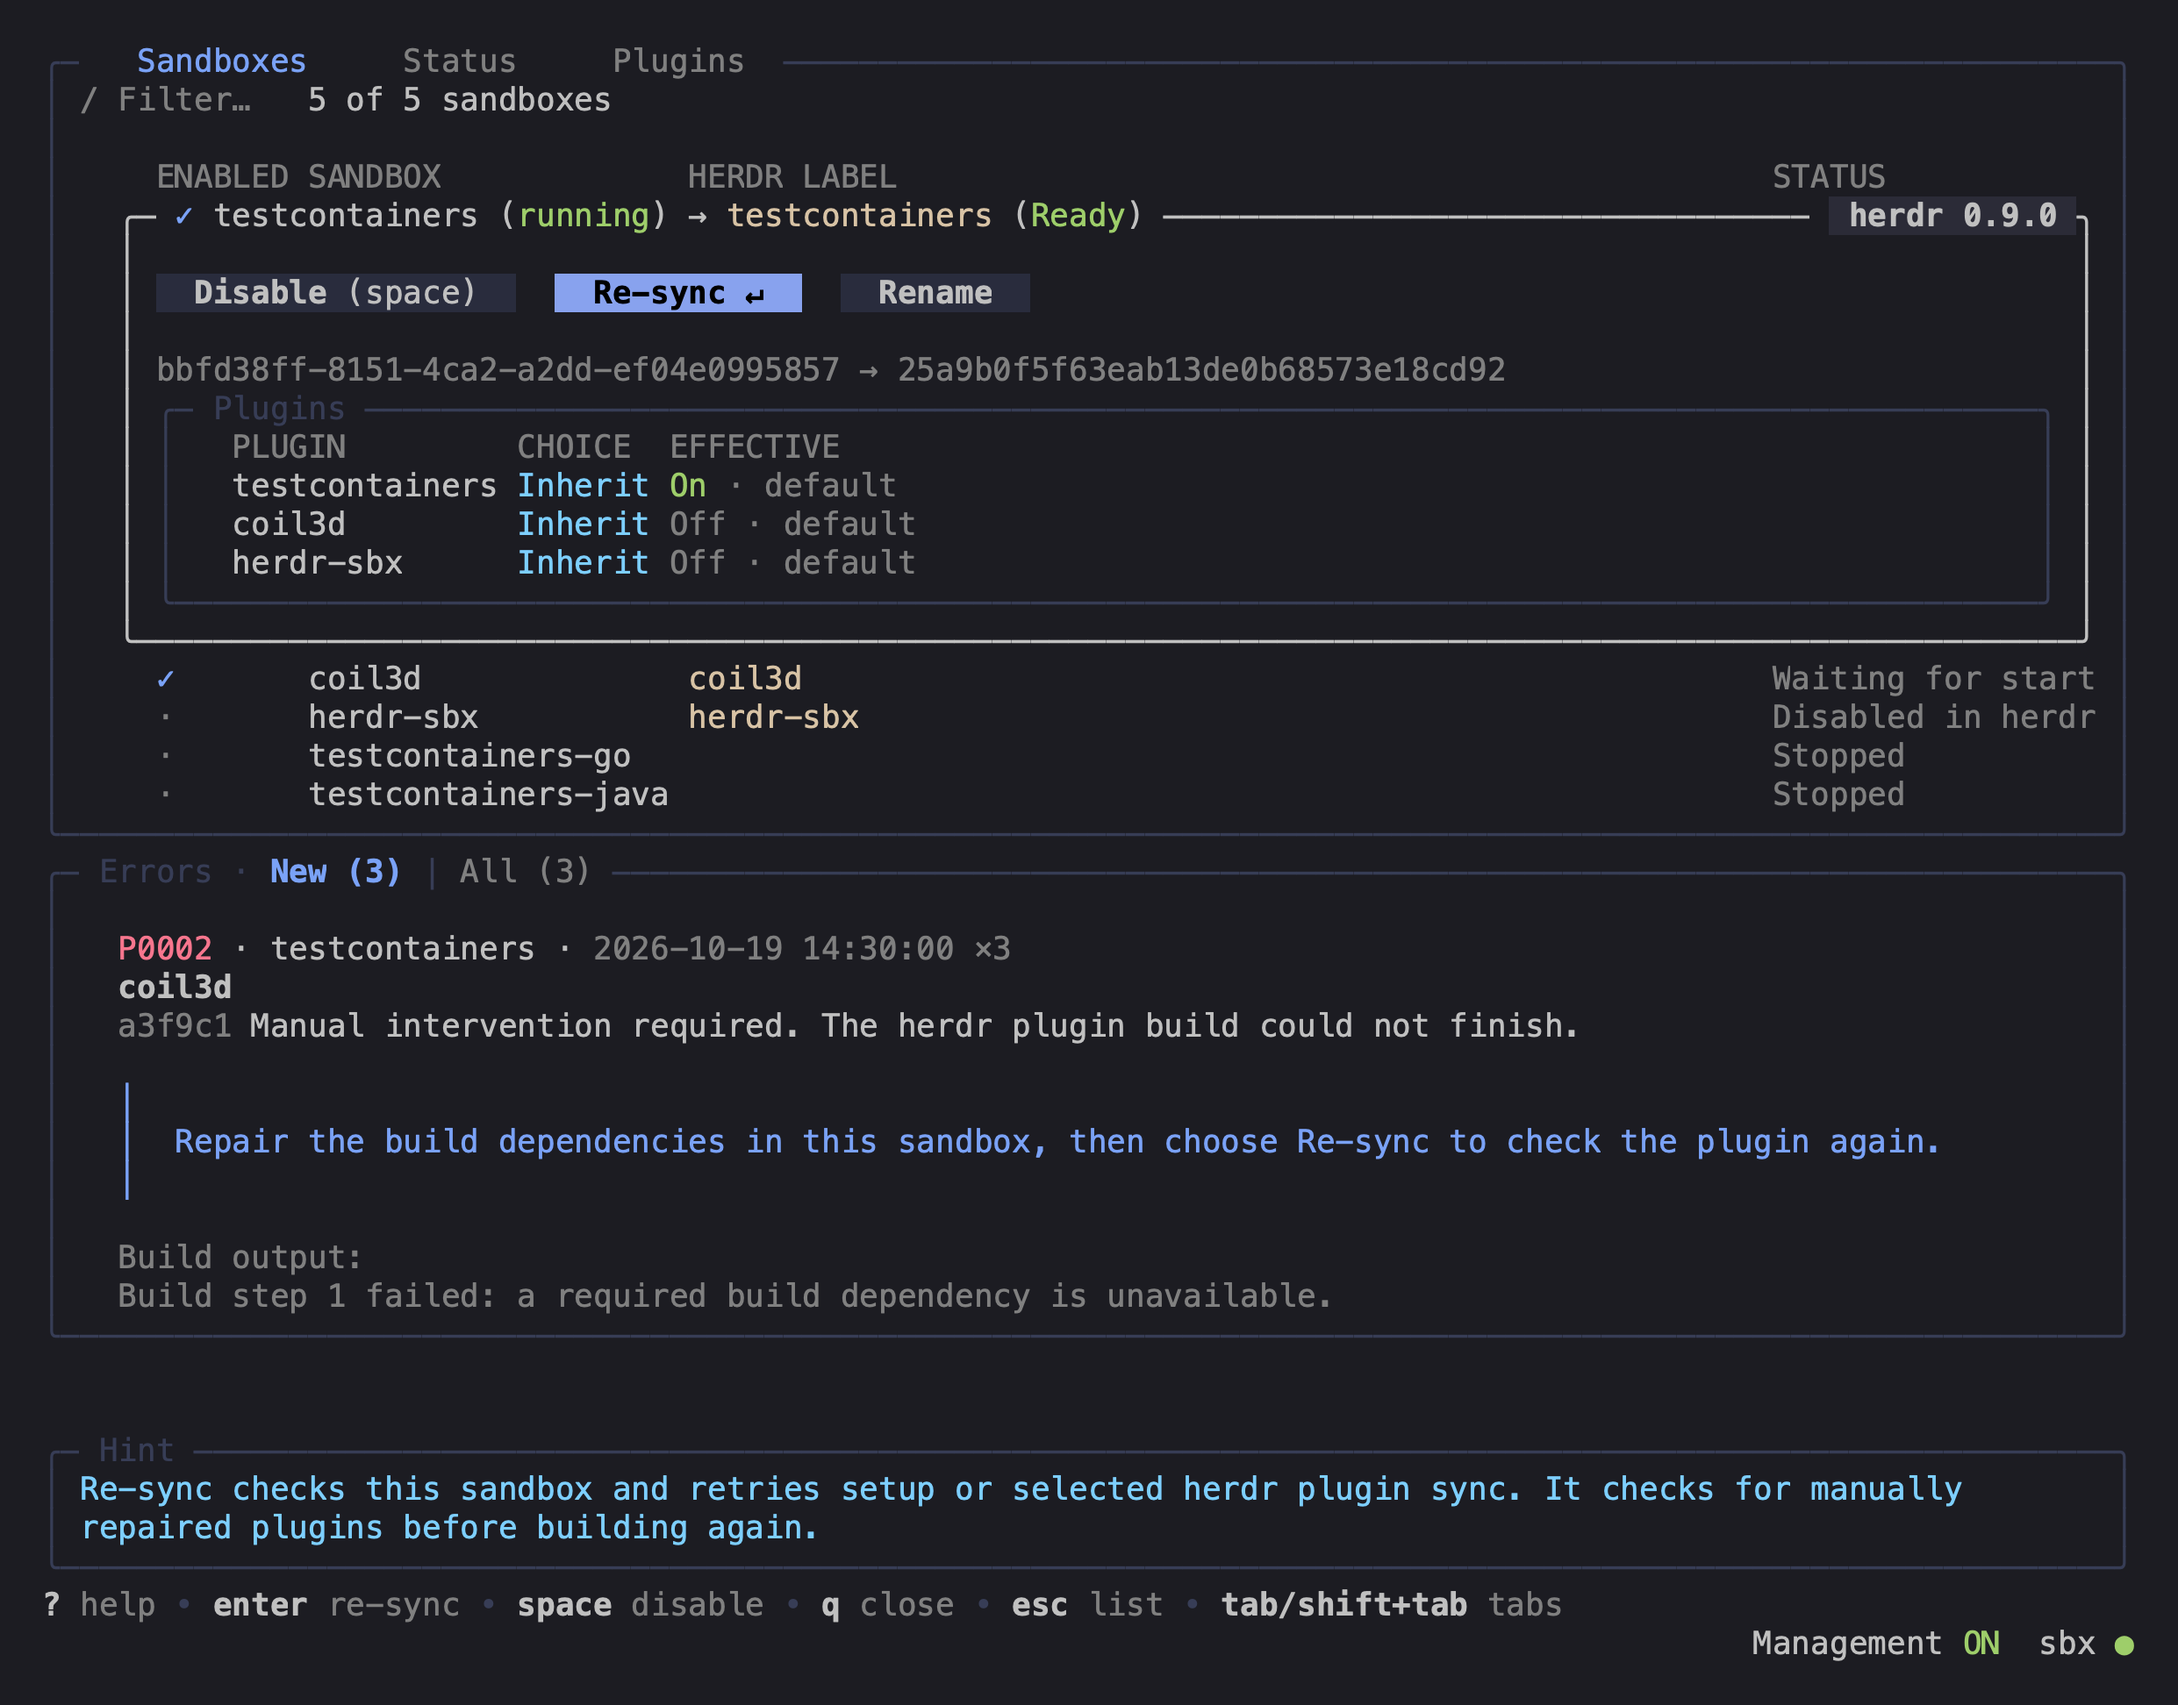
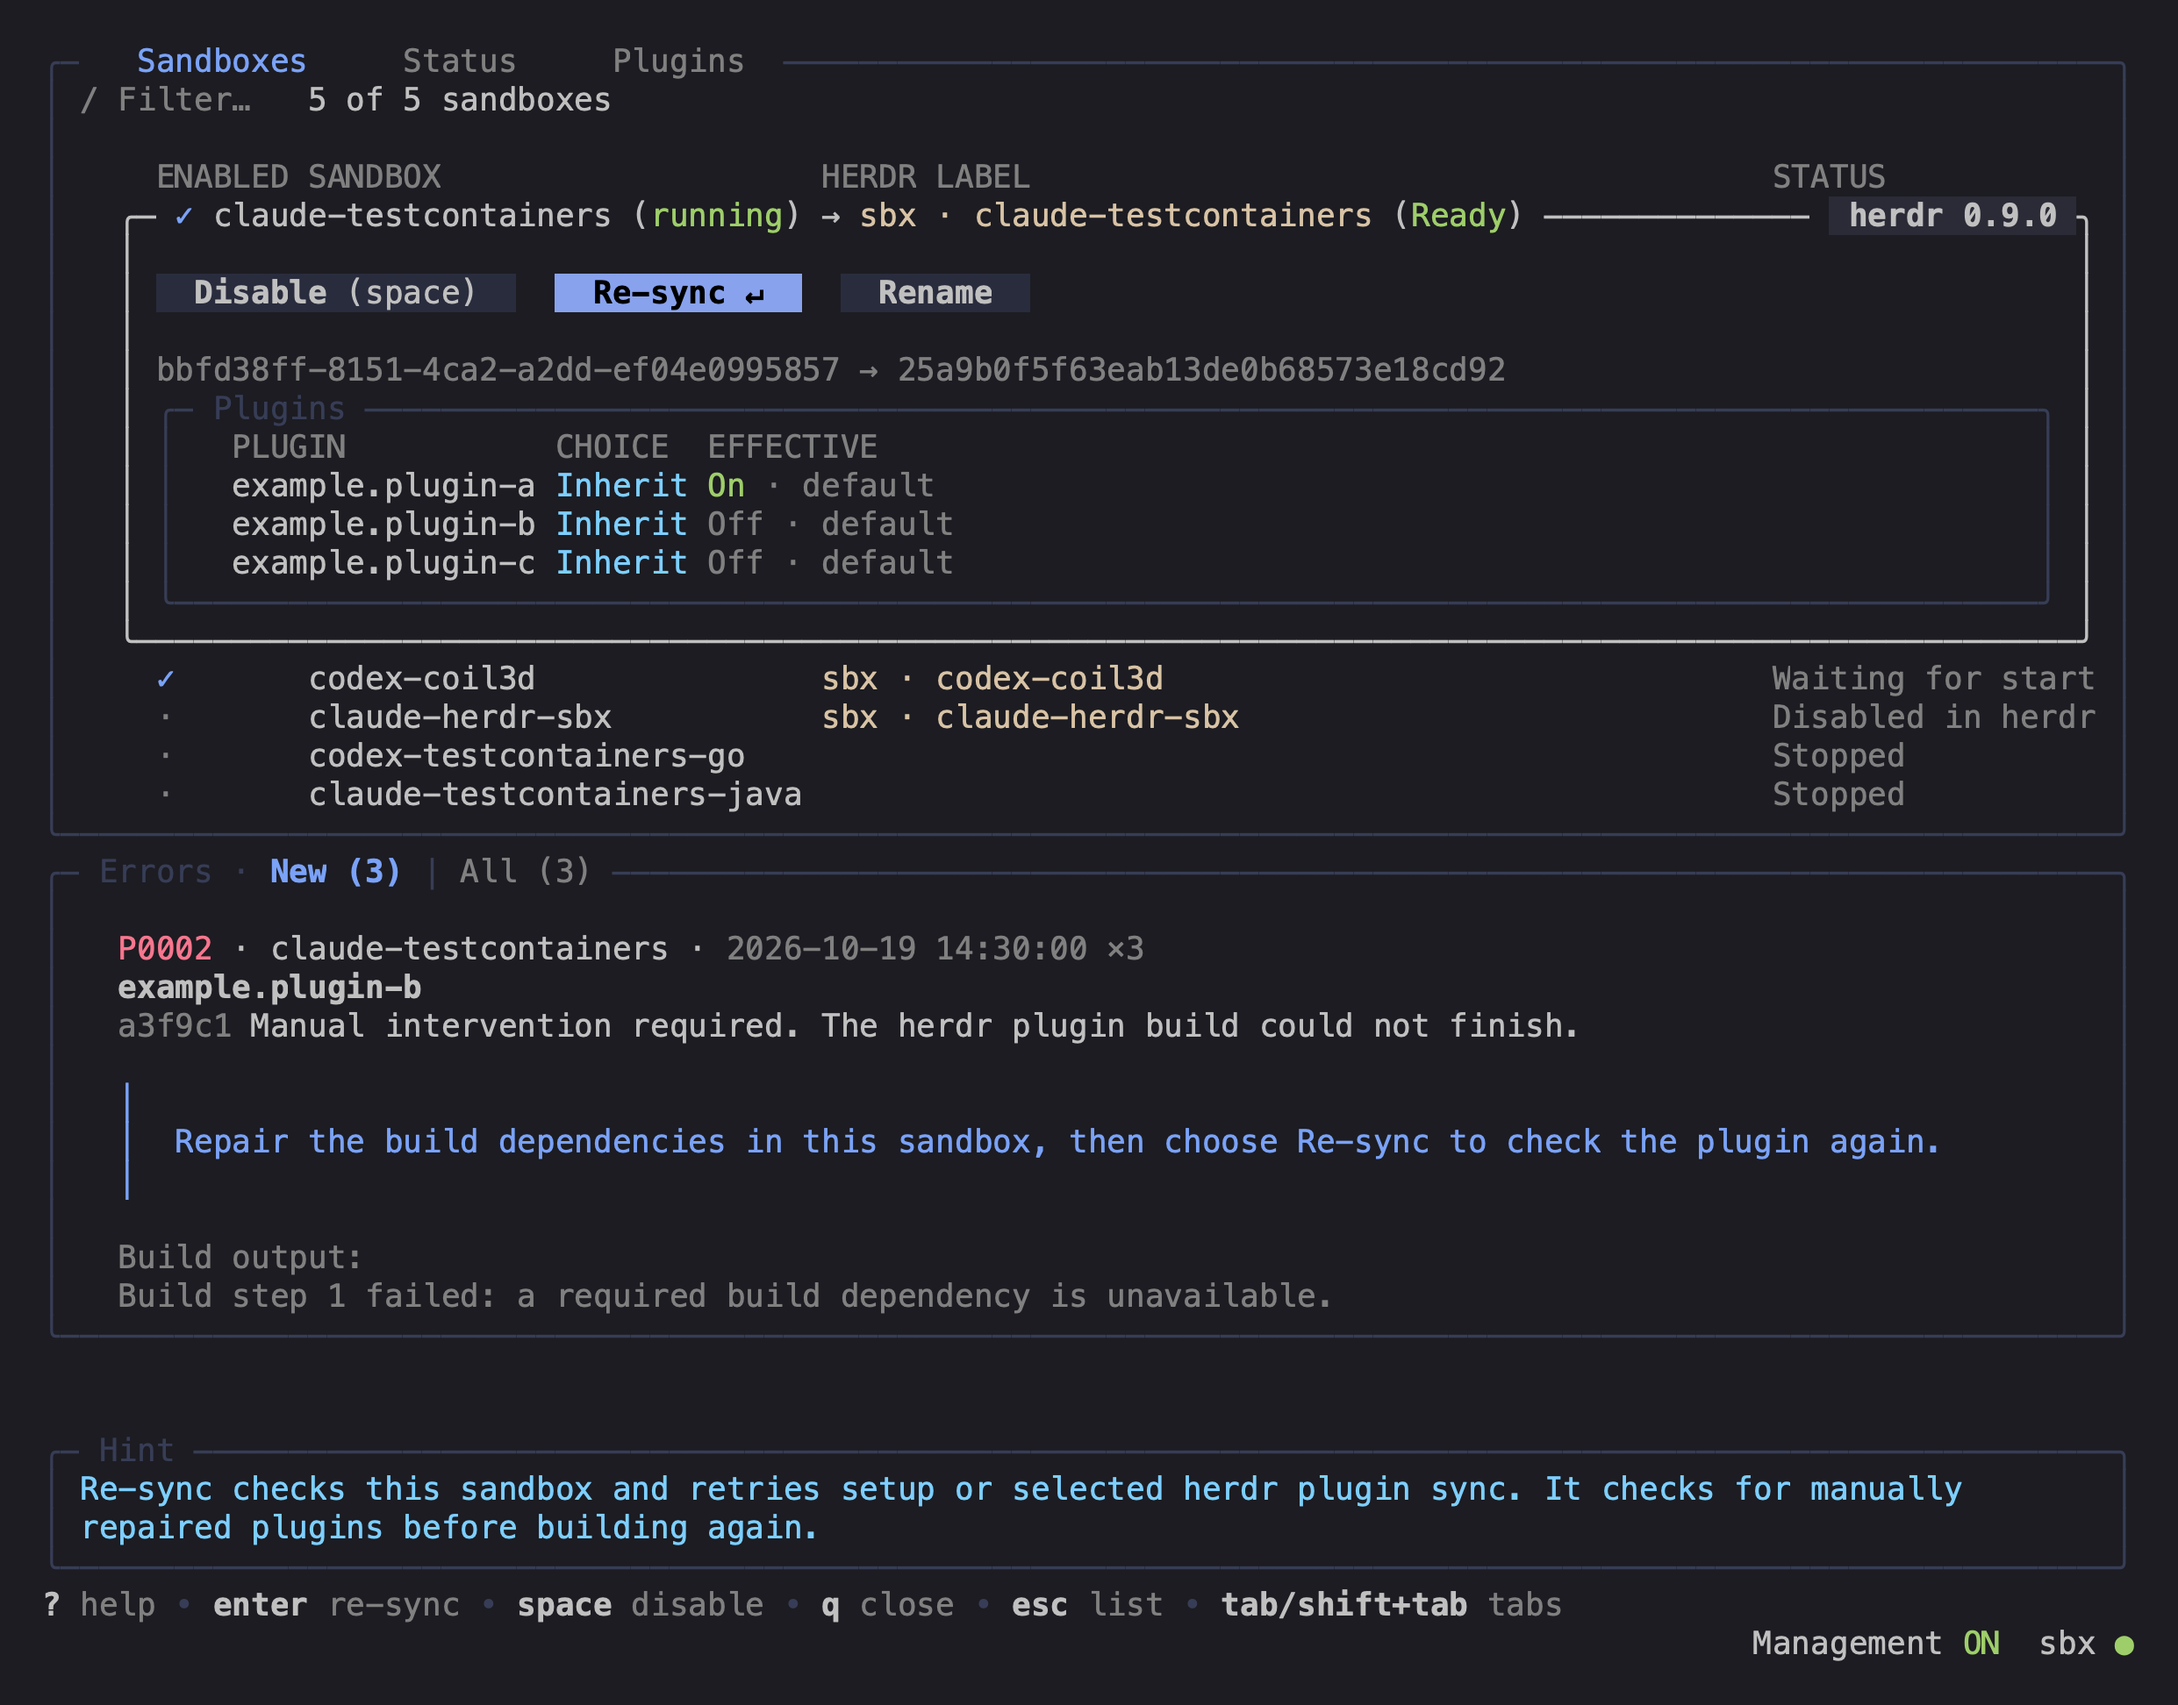
Move Management status into a corner badge and refresh examples

diff --git a/internal/panel/screenshots_test.go b/internal/panel/screenshots_test.go
@@ -40,7 +40,7 @@ func TestCaptureScreenshots(t *testing.T) {
 	m.expanded, m.focus = m.selected, "actions"
 	m.button = 1
 	at := time.Date(2026, 10, 19, 12, 30, 0, 0, time.UTC)
-	m.errors = []uiError{{ref: "a3f9c1", code: store.CodeGuestPluginSync, scope: store.StatusKey("examples", m.selected), pluginID: "coil3d", detail: "Manual intervention required. The herdr plugin build could not finish.", recovery: "Repair the build dependencies in this sandbox, then choose Re-sync to check the plugin again.", output: "Build step 1 failed: a required build dependency is unavailable.", count: 3, firstSeen: at, seen: at}}
+	m.errors = []uiError{{ref: "a3f9c1", code: store.CodeGuestPluginSync, scope: store.StatusKey("examples", m.selected), pluginID: "example.plugin-b", detail: "Manual intervention required. The herdr plugin build could not finish.", recovery: "Repair the build dependencies in this sandbox, then choose Re-sync to check the plugin again.", output: "Build step 1 failed: a required build dependency is unavailable.", count: 3, firstSeen: at, seen: at}}
 	write("sandbox-details", m)
 	m = screenshotModel()
 	m.width, m.height = 110, 28
@@ -62,7 +62,7 @@ func TestCaptureScreenshots(t *testing.T) {
 	}
 	write("status", m)
 	m = screenshotModel()
-	m.page, m.pluginSelected = "Plugins", "testcontainers"
+	m.page, m.pluginSelected = "Plugins", "example.plugin-a"
 	m.height = 16
 	write("plugins", m)
 	m = screenshotModel()
@@ -75,8 +75,8 @@ func screenshotModel() *model {
 		queries: map[string]string{}, pending: map[string]bool{}, pendingChoices: map[string]pluginChoiceChange{},
 		workerEnabled: true, workerLoaded: true,
 		worker:   store.WorkerStatus{State: "running", LastSync: time.Now()},
-		plugins:  []guestplugins.Choice{{ID: "testcontainers", Enabled: true, Installed: true}, {ID: "coil3d", Installed: true}, {ID: "herdr-sbx", Installed: true}},
-		settings: store.GuestPluginDefaults{Plugins: map[string]store.GuestPluginDefault{"testcontainers": {Enabled: true}, "coil3d": {Enabled: false}}},
+		plugins:  []guestplugins.Choice{{ID: "example.plugin-a", Enabled: true, Installed: true}, {ID: "example.plugin-b", Installed: true}, {ID: "example.plugin-c", Installed: true}},
+		settings: store.GuestPluginDefaults{Plugins: map[string]store.GuestPluginDefault{"example.plugin-a": {Enabled: true}, "example.plugin-b": {Enabled: false}}},
 		checks:   precheck.Result{Checks: []precheck.Check{{Name: "herdr", Level: precheck.Ready, Detail: "herdr 0.9.0"}, {Name: "Sandbox daemon", Level: precheck.Ready, Detail: "Running"}, {Name: "Sandbox SSH", Level: precheck.Ready, Detail: "Configured"}}},
 	}
 	choices := []store.EnabledChoice{store.Enabled, store.Enabled, store.Disabled, store.Disabled, store.Disabled}
@@ -90,8 +90,8 @@ func screenshotModel() *model {
 		"e8321142-7f39-4b84-9ac8-11fa7080d9fb",
 	}
 	profileIDs := []string{"25a9b0f5f63eab13de0b68573e18cd92", "92c3df06bd5143e7a76d1f608d841b2c", "4cd97acb00af4ce68239298e9f082936"}
-	for i, name := range []string{"testcontainers", "coil3d", "herdr-sbx", "testcontainers-go", "testcontainers-java"} {
-		row := registration.SandboxRow{Sandbox: sbx.Sandbox{ID: sandboxIDs[i], Name: name, Status: states[i]}, Scope: "examples", Enabled: choices[i], Label: name, EntryPresent: i < 3,
+	for i, name := range []string{"claude-testcontainers", "codex-coil3d", "claude-herdr-sbx", "codex-testcontainers-go", "claude-testcontainers-java"} {
+		row := registration.SandboxRow{Sandbox: sbx.Sandbox{ID: sandboxIDs[i], Name: name, Status: states[i]}, Scope: "examples", Enabled: choices[i], Label: "sbx · " + name, EntryPresent: i < 3,
 			Status: store.SandboxStatus{Connection: connections[i], ObservedAt: time.Now(), GuestServer: &store.GuestServerObservation{Version: "0.9.0", Current: true, CheckedAt: time.Now()}}}
 		native := i == 0
 		if row.EntryPresent {

diff --git a/internal/panel/styles.go b/internal/panel/styles.go
@@ -244,7 +244,7 @@ func (m *model) managementCancelling() bool {
 	return m.worker.State == "cancelling" || !m.stopRequestedAt.IsZero()
 }
 
-func (m *model) managementStatus() string {
+func (m *model) managementState() (string, string) {
 	state, color := "Error", colorError
 	switch m.worker.State {
 	case "running":
@@ -254,16 +254,21 @@ func (m *model) managementStatus() string {
 	case "stopped", "exited":
 		state, color = "Stopped", colorMuted
 	}
-	text := ink(color, state)
 	if m.managementCancelling() {
-		text = ink(colorMuted, "Cancelling")
 		if m.workerControlError {
-			text += " " + ink(colorError, "ERROR") + " · " + ink(color, state)
+			return "Cancelling ERROR · " + state, colorMuted
 		}
-		return text
+		return "Cancelling", colorMuted
 	}
 	if m.workerControlError {
-		return ink(colorError, "ERROR") + " · " + text
+		return "ERROR · " + state, colorError
+	}
+	return state, color
+}
+
+func (m *model) managementActivity() string {
+	if m.managementCancelling() || m.workerControlError {
+		return ""
 	}
 	pending := m.refreshing || m.checksPending
 	if m.worker.State == "running" && !m.worker.LastSync.IsZero() && time.Since(m.worker.LastSync) > 30*time.Second {
@@ -271,9 +276,19 @@ func (m *model) managementStatus() string {
 		if pending {
 			stamp += "*"
 		}
-		text += " " + ink(colorMuted, stamp)
-	} else if pending {
-		text += ink(colorWarning, " *")
+		return stamp
+	}
+	if pending {
+		return "*"
+	}
+	return ""
+}
+
+func (m *model) managementStatus() string {
+	state, color := m.managementState()
+	text := ink(color, state)
+	if activity := m.managementActivity(); activity != "" {
+		text += " " + ink(colorMuted, activity)
 	}
 	return text
 }

diff --git a/internal/panel/view.go b/internal/panel/view.go
@@ -613,13 +613,24 @@ func (m *model) statusLines() []line {
 			off = ink(colorError, "OFF")
 		}
 	}
-	toggle := textLine(on + ink(colorMuted, " | ") + off + "  " + m.managementStatus())
-	toggle.hits = []hit{{x: 0, w: 2, action: "status-choice", id: "on"}, {x: 5, w: 3, action: "status-choice", id: "off"}, {x: 9, w: ansi.StringWidth(m.managementStatus()), action: "status-action", id: "0"}}
+	toggle := textLine(on + ink(colorMuted, " | ") + off)
+	toggle.hits = []hit{{x: 0, w: 2, action: "status-choice", id: "on"}, {x: 5, w: 3, action: "status-choice", id: "off"}}
 	border, title := colorSeparator, "Management"
 	if m.focus == "table" && m.button == 0 {
 		border, title = colorText, "Management ›"
 	}
 	lines := outline([]line{toggle}, title, m.width-4, 0, border)
+	state, stateColor := m.managementState()
+	width := m.width - 4
+	badge := badgeStyle(stateColor, truncate(state, max(1, width-11)))
+	if m.focus == "table" && m.button == 0 && width-ansi.StringWidth(badge)-6 < ansi.StringWidth(title) {
+		title = "› Management"
+	}
+	lines[0] = line{text: detailBorder(title, "", badge, width, 0, border), hits: []hit{{x: 1, w: width - 2, action: "status-action", id: "0"}}}
+	if activity := m.managementActivity(); activity != "" {
+		activity = " " + truncate(activity, max(1, width-4)) + " "
+		lines[len(lines)-1].text = ink(border, "╰"+strings.Repeat("─", max(0, width-ansi.StringWidth(activity)-2))) + ink(colorMuted, activity) + ink(border, "╯")
+	}
 	var refresh line
 	for i, action := range actions[1:] {
 		label := action.label

diff --git a/internal/panel/status_test.go b/internal/panel/status_test.go
@@ -100,3 +100,34 @@ func TestStatusPrerequisiteGroupingAndUnstyledResults(t *testing.T) {
 		}
 	}
 }
+
+func TestManagementBordersSeparateStateAndObservationActivity(t *testing.T) {
+	for _, width := range []int{30, 60, 110} {
+		m := modelFixture(t)
+		m.width = width
+		m.openTab("Status")
+		m.worker.State = "running"
+		m.worker.LastSync = time.Now().Add(-time.Minute)
+		m.refreshing = true
+		lines := m.statusLines()
+		top, body, bottom := lines[0].text, lines[1].text, lines[2].text
+		if !strings.HasSuffix(ansi.Strip(top), " Running ╮") || !strings.Contains(ansi.Strip(body), "ON | OFF") || !strings.Contains(ansi.Strip(bottom), "last at "+m.worker.LastSync.Local().Format("15:04")+"*") {
+			t.Fatalf("width %d card:\n%s\n%s\n%s", width, top, body, bottom)
+		}
+		for _, l := range lines[:3] {
+			if ansi.StringWidth(l.text) != width-4 {
+				t.Fatalf("card width %d: %q", width, l.text)
+			}
+		}
+		m.worker.State = "cancelling"
+		m.workerControlError = true
+		t.Setenv("NO_COLOR", "1")
+		lines = m.statusLines()
+		if ansi.StringWidth(lines[0].text) > width-4 {
+			t.Fatalf("failure badge overflow: %q", lines[0].text)
+		}
+		if !strings.Contains(lines[0].text, "Cancelling") || !strings.Contains(lines[0].text, "›") {
+			t.Fatalf("narrow cancellation/focus lost: %q", lines[0].text)
+		}
+	}
+}

diff --git a/internal/panel/tabs_test.go b/internal/panel/tabs_test.go
@@ -530,7 +530,7 @@ func TestFailedOffKeepsChoiceAndObservedRunning(t *testing.T) {
 		t.Fatal("OFF did not show the stopping transition")
 	}
 	m.Update(command())
-	line := ansi.Strip(m.statusLines()[1].text)
+	line := ansi.Strip(m.statusLines()[0].text)
 	if m.workerEnabled || !strings.Contains(line, "ERROR") || !strings.Contains(line, "Running") {
 		t.Fatalf("failed OFF lost the choice or runtime: %q", line)
 	}

diff --git a/README.md b/README.md
@@ -41,15 +41,13 @@ For a local checkout, run these subcommands with `bin/herdr-sbx`.
 
 ## Screenshots
 
-These screenshots use simulated data and `claude-*` sandbox names.
-
 Sandbox table:
 
-![Sandbox manager table with simulated claude sandboxes](docs/screenshots/sandboxes.png)
+![Sandbox manager table with simulated sandboxes](docs/screenshots/sandboxes.png)
 
 Sandbox details and recovery actions:
 
-![Expanded sandbox details with simulated claude data](docs/screenshots/sandbox-details.png)
+![Expanded sandbox details with simulated data](docs/screenshots/sandbox-details.png)
 
 Herdr plugin defaults:
 
@@ -57,7 +55,7 @@ Herdr plugin defaults:
 
 Compact layout:
 
-![Compact sandbox manager with simulated claude sandboxes](docs/screenshots/compact.png)
+![Compact sandbox manager with simulated sandboxes](docs/screenshots/compact.png)
 
 ## Upgrade
 

diff --git a/docs/reference.md b/docs/reference.md
@@ -83,6 +83,7 @@ The bottom-right indicators show Management ON or OFF immediately before the obs
 An unsettled stop shows exactly gray `Cancelling`.
 The Status tab keeps the saved Management choice separate from daemon health.
 Management has its own outlined subsection, focused by default; Space or Enter toggles the choice.
+Its observed worker status appears in a top-right border badge, with additional details such as update age or activity muted at the bottom right.
 Its outline brightens while focused, and Up/Down moves to the other available Status actions.
 The Status Hint follows current Management activity and worker observations rather than retaining completed request notices or sandbox-specific guidance.
 Prerequisite results use colored foreground text, with capitalized status words in the Status column.

diff --git a/docs/tui-spec.md b/docs/tui-spec.md
@@ -301,6 +301,8 @@ An active daemon does not imply that every sandbox is ready.
 On first use, opening the TUI starts management automatically.
 Closing the TUI leaves management running.
 The Status tab has an outlined Management subsection containing `ON | OFF` and the observed worker state.
+Show the worker state as a badge in the top-right border, matching the placement of the herdr version in sandbox details.
+Place additional details, such as update age or activity, in muted text at the bottom-right corner.
 Focus this subsection by default, using the brighter outline of focused sandbox details.
 Space or Enter toggles Management while it has focus, including reversing a requested change that is still settling.
 Up/Down moves between Management and the available setup or Refresh actions.
